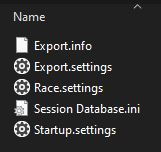
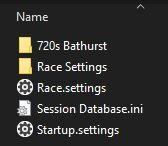
Import team settings in "Simulator Setup"

Changed region(s): [[0.0621, 0.2192, 0.8696, 0.9589], [0.0621, 0.0822, 0.2795, 0.1644], [0.8075, 0.0274, 0.8696, 0.0548]]

diff --git a/Docs/Using Simulator Controller.md b/Docs/Using Simulator Controller.md
@@ -166,15 +166,15 @@ In many cases all drivers in a given team want to share the same configuration. 
 
    Contains information about the Team Server connection of the local telemetry database. If you have configured a data replication with the Team Server, you will want to enable it for all your team mates as well. This file can also be found in the *Simulator Controller\Config* folder in your user *Documents* folder.
 
-4. *Export of the (race) settings from the "Session Database"*
+4. *Exports from the "Session Database"*
 
-   You can prepare an export of all the settings you want to share with your team mates. Normally you want to export all your settings using the Control key while exporting the settings from your "Session Database". Then put the files from the export folder into the folder of the team package.
+   You can prepare any number of exports from your session database you want to share with your team mates. Normally you want to use the Control key while exporting the settings from your "Session Database", so that everythig is included. You can also export telemetry data, track maps and other stuff from the [administration page](https://github.com/SeriousOldMan/Simulator-Controller/wiki/Virtual-Race-Engineer#administration) of the "Session Database". Put all the export folders into the folder of the team package.
    
 The content of a typical folder of common team settings should look like this:
 
 ![](https://github.com/SeriousOldMan/Simulator-Controller/blob/main/Docs/Images/Team%20Settings%20Package.JPG)
 
-Now you can zip this folder and send it to your team mates. They have to unzip it, start "Simulator Setup" and use the special preset "Import Settings for your team" to import the stuff.
+Now you can zip this folder and send it to your team mates. They have to unzip it, start "Simulator Setup" and use the special preset "Import Settings for your team" to import the stuff. For settings, telemetry data and so on, you can select item by item, which you want to import.
 
 ### Voice Commands
 
